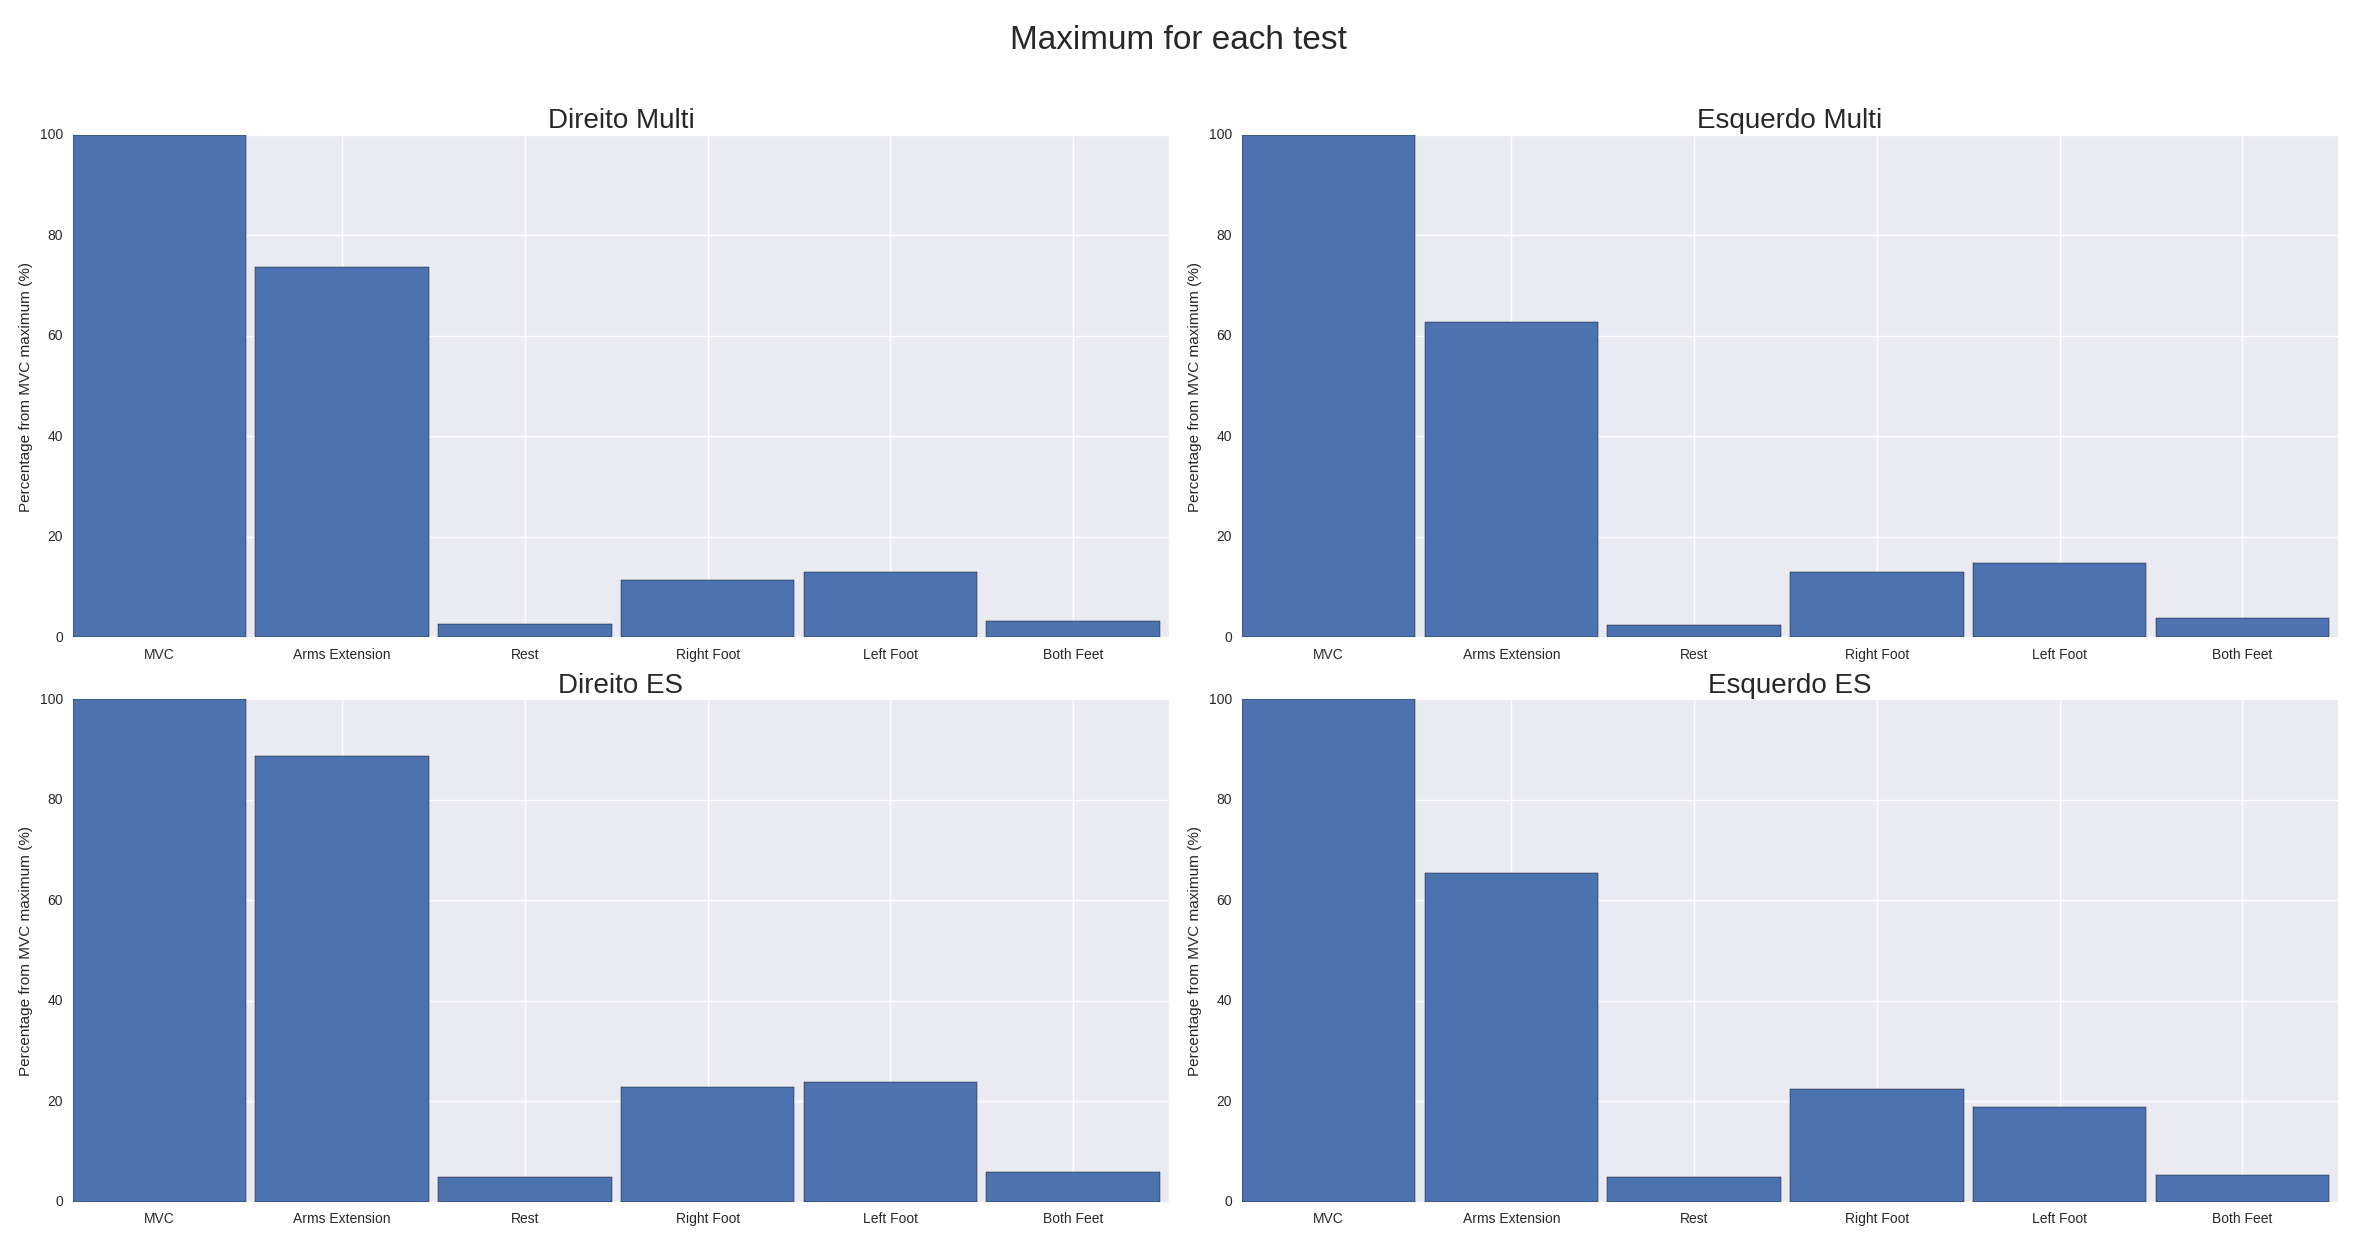
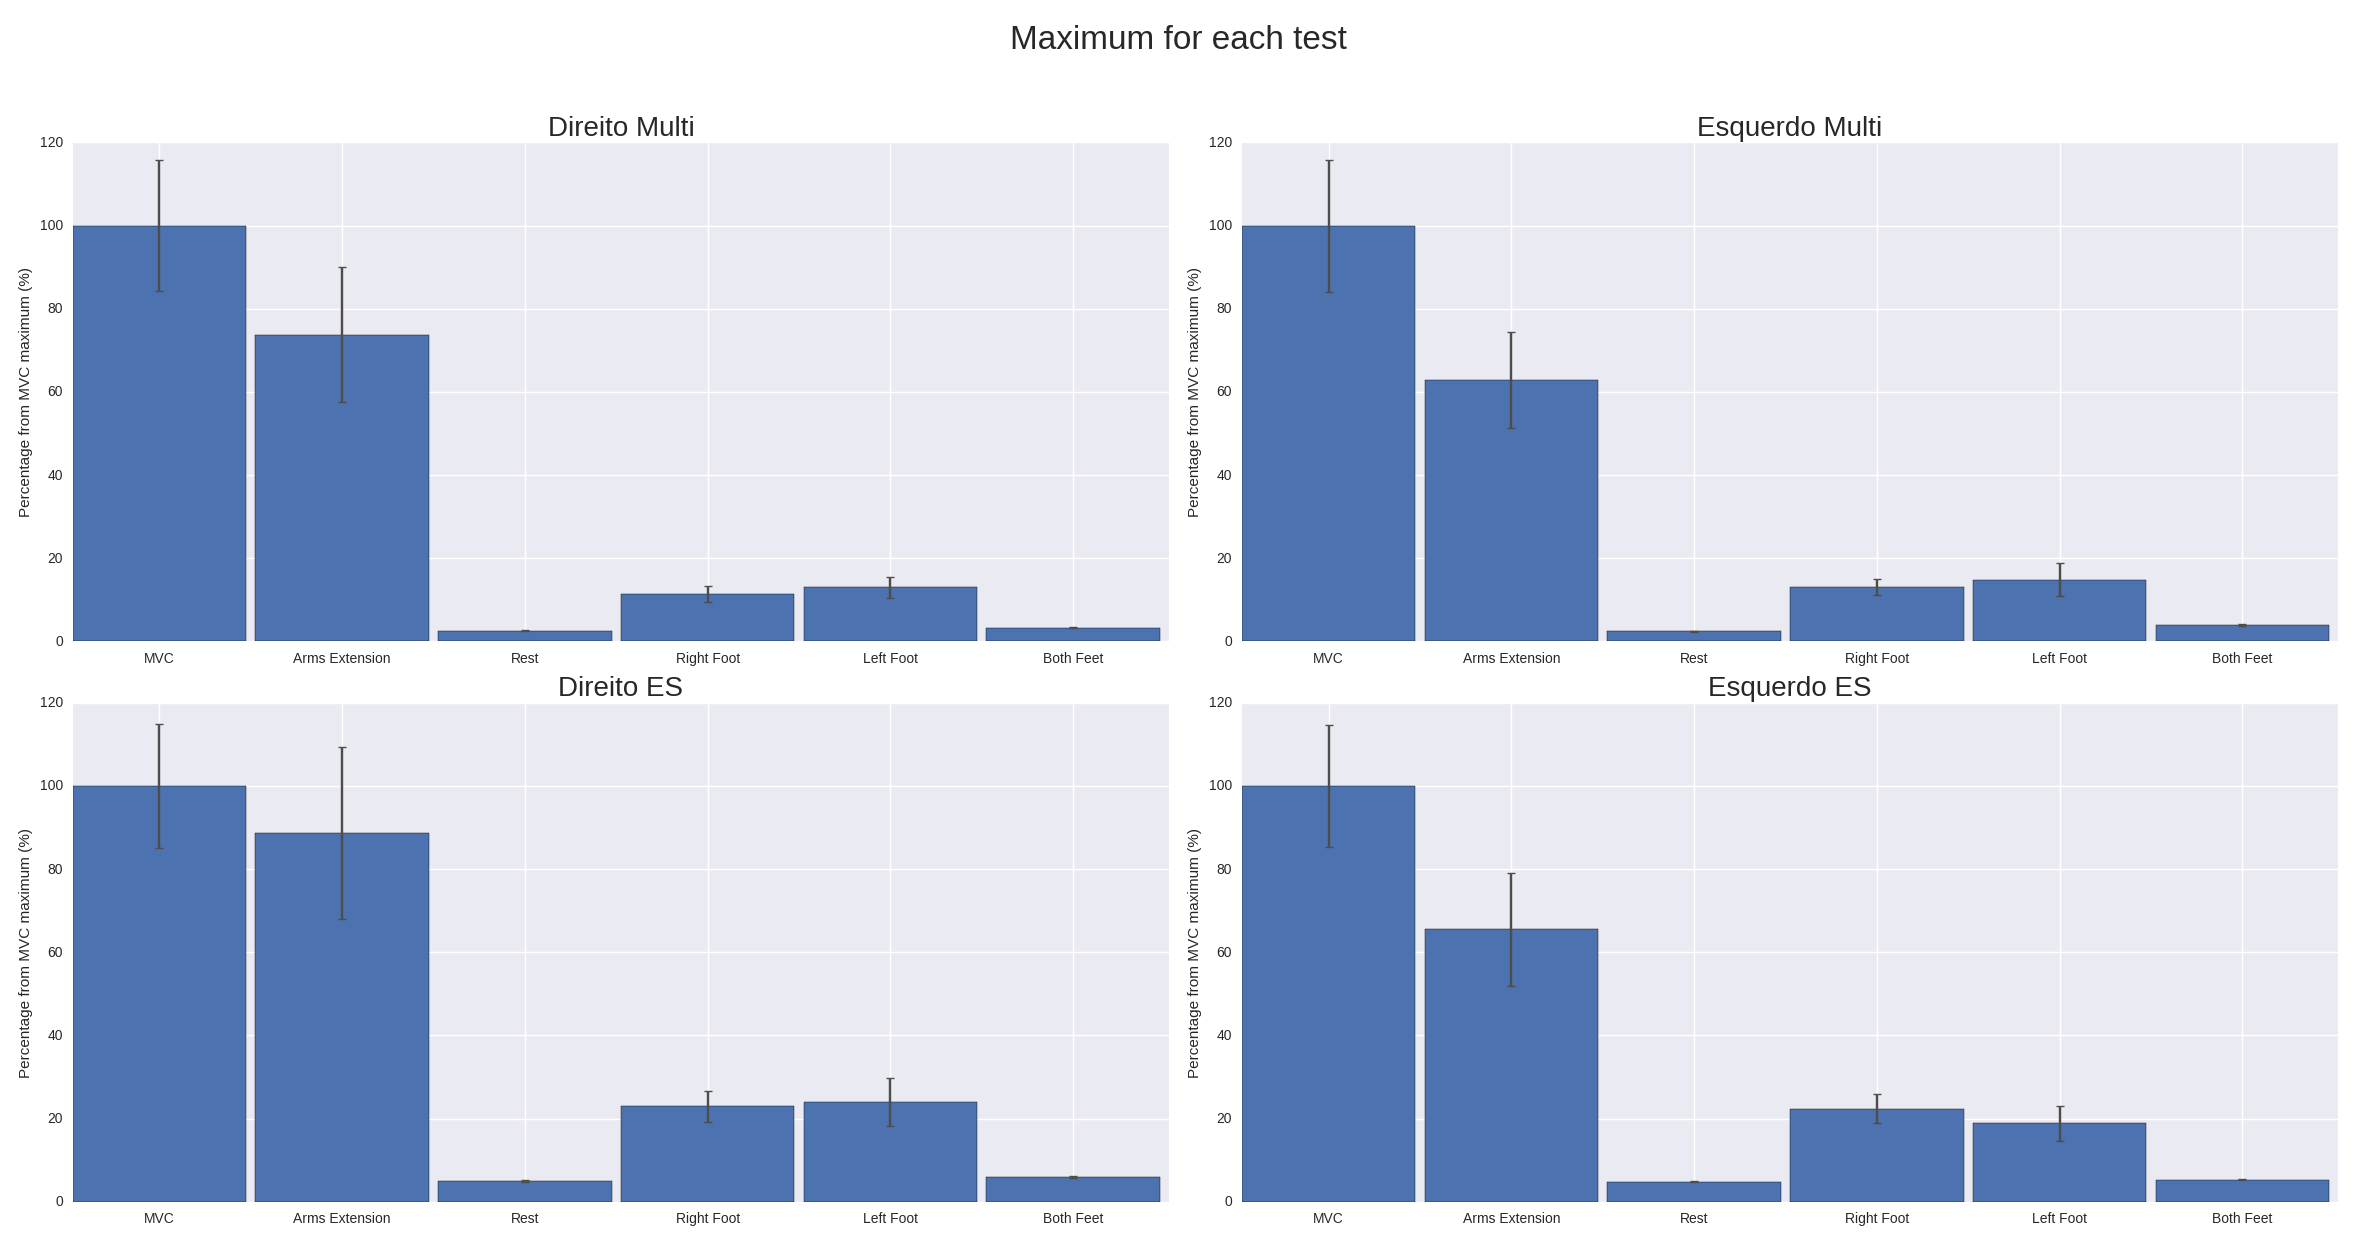
new figure and error bars

diff --git a/main.py b/main.py
@@ -121,10 +121,27 @@ for i in range(0, 4):
     plt.subplot(2,2, i+1)
     ind = np.arange(6)
     width = 0.95
-    plt.bar(ind, max_values[:, i], width)
+    #Desvio padrao
+    #Tabela
+    error_config = {'ecolor': '0.3', 'capthick': '1'}
+    plt.bar(ind, max_values[:, i], width, yerr=[np.std(MVC_Data.RMS_EMGs_Normalized[:, i]), np.std(Arms_Extensions_Data.RMS_EMGs_Normalized[:, i]), np.std(Rest_Data.RMS_EMGs_Normalized[:, i]), np.std(Right_Foot_Data.RMS_EMGs_Normalized[:, i]), np.std(Left_Foot_Data.RMS_EMGs_Normalized[:, i]), np.std(Two_Feet_Data.RMS_EMGs_Normalized[:, i])], error_kw=error_config)
     plt.xticks(ind + width/2.0, ("MVC", "Arms Extension", "Rest", "Right Foot", "Left Foot", "Both Feet"))
     plt.title(MVC_Data.EMG_labels[i], fontsize=20)
     plt.ylabel("Percentage from MVC maximum (%)")
 
 plt.suptitle("Maximum for each test", fontsize=24)
+
+plt.figure()
+for i in range(0, 4):
+    plt.subplot(2,2, i+1)
+    ind = np.arange(6)
+    width = 0.95
+    #Desvio padrao
+    #Tabela
+    error_config = {'ecolor': '0.3', 'capthick': '1'}
+    plt.bar(ind, [np.mean(MVC_Data.RMS_EMGs_Normalized[:, i]), np.mean(Arms_Extensions_Data.RMS_EMGs_Normalized[:, i]), np.mean(Rest_Data.RMS_EMGs_Normalized[:, i]), np.mean(Right_Foot_Data.RMS_EMGs_Normalized[:, i]), np.mean(Left_Foot_Data.RMS_EMGs_Normalized[:, i]), np.mean(Two_Feet_Data.RMS_EMGs_Normalized[:, i])], width, yerr=[np.std(MVC_Data.RMS_EMGs_Normalized[:, i]), np.std(Arms_Extensions_Data.RMS_EMGs_Normalized[:, i]), np.std(Rest_Data.RMS_EMGs_Normalized[:, i]), np.std(Right_Foot_Data.RMS_EMGs_Normalized[:, i]), np.std(Left_Foot_Data.RMS_EMGs_Normalized[:, i]), np.std(Two_Feet_Data.RMS_EMGs_Normalized[:, i])], error_kw=error_config)
+    plt.xticks(ind + width/2.0, ("MVC", "Arms Extension", "Rest", "Right Foot", "Left Foot", "Both Feet"))
+    plt.title(MVC_Data.EMG_labels[i], fontsize=20)
+    plt.ylabel("Percentage from MVC maximum (%)")
+plt.suptitle("Mean for each test", fontsize=24)
 plt.show()
